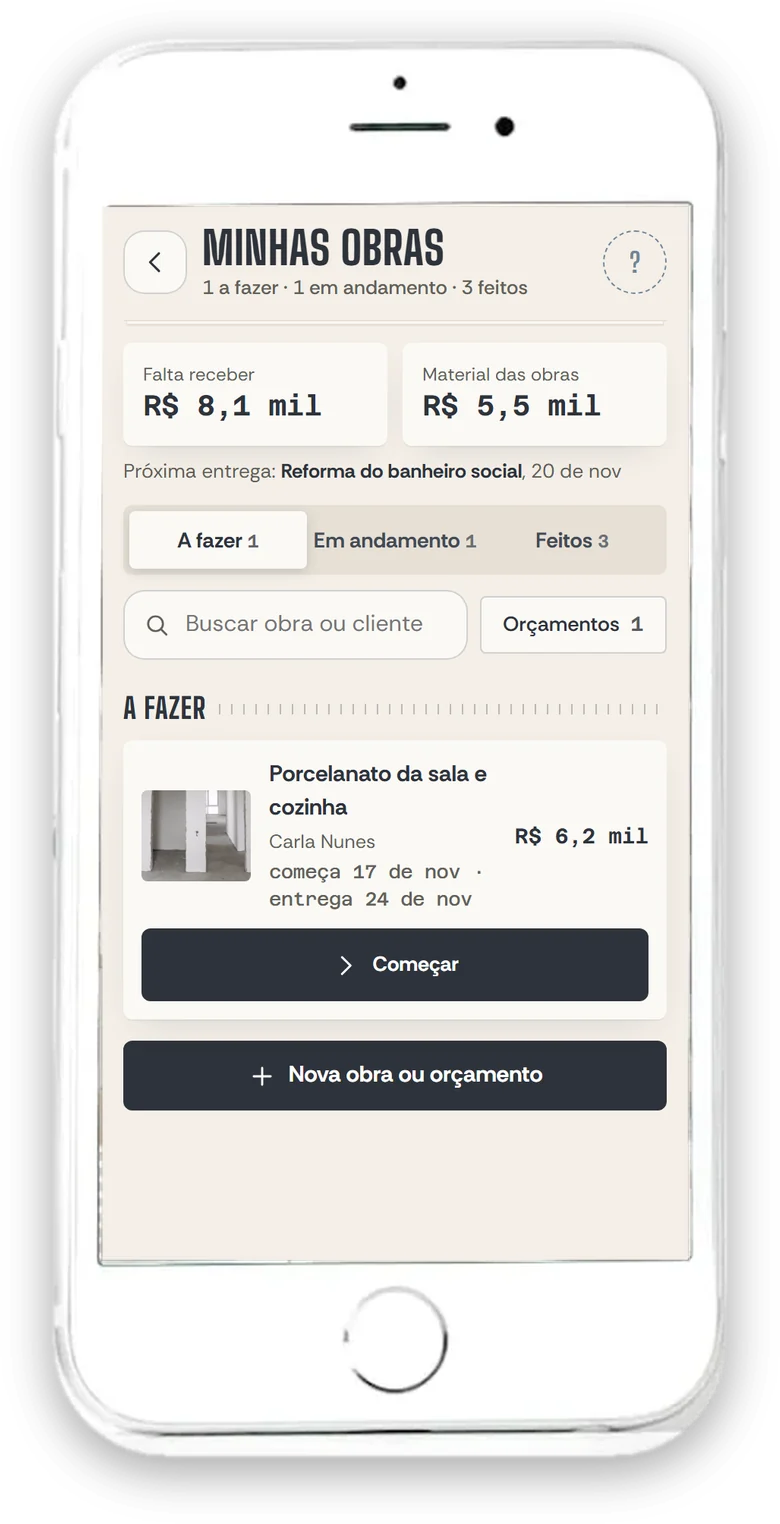
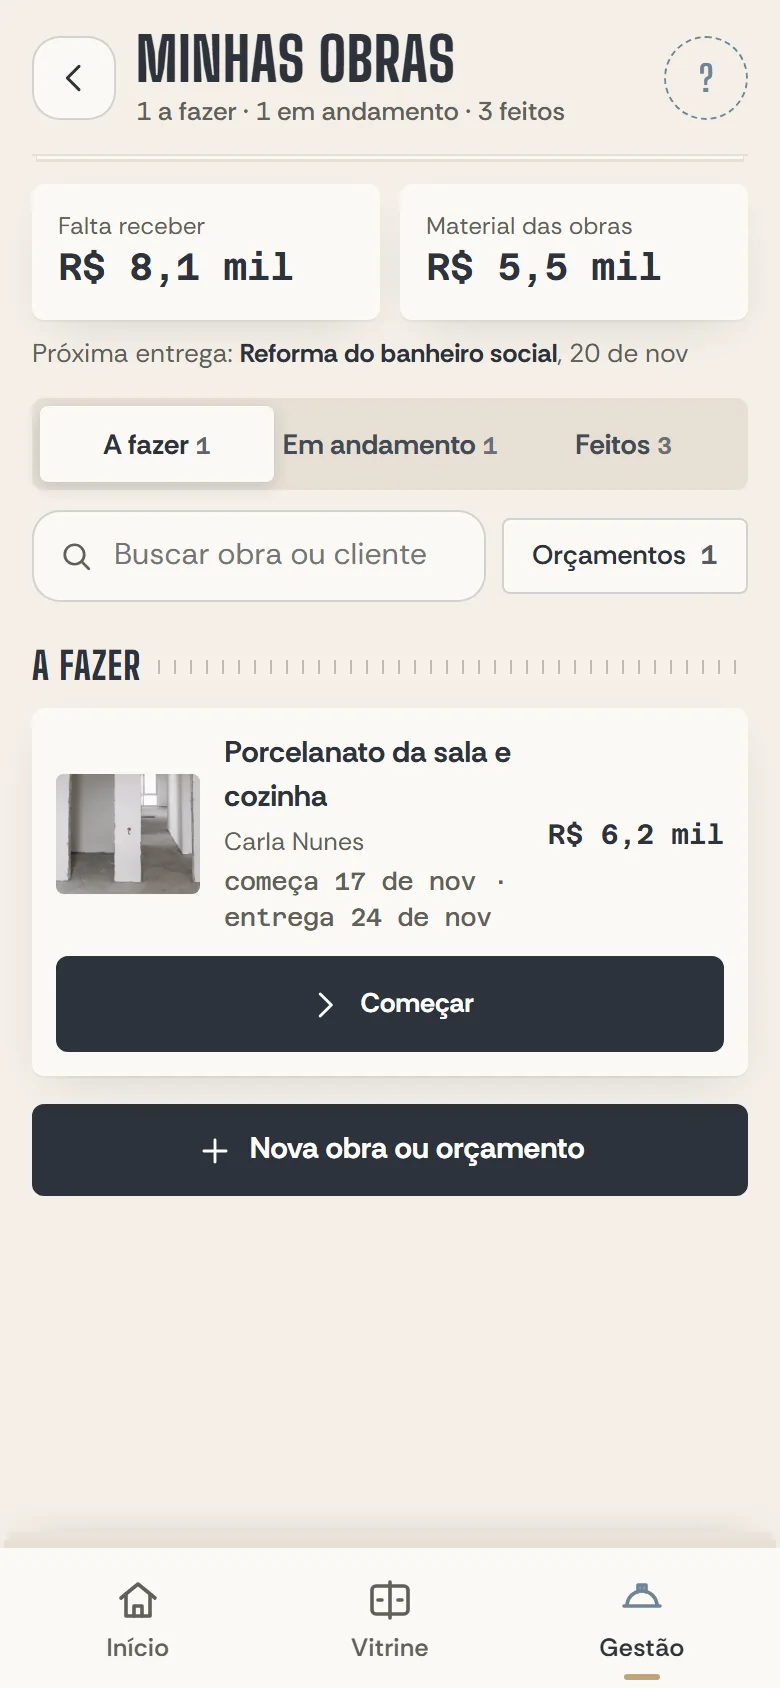
Atria: celular da vitrine do site com a tela inteira

diff --git a/vitrine.html b/vitrine.html
@@ -117,7 +117,7 @@
     </div>
     <div class="vt-palco">
       <figure class="vt-tela"><img src="img/sistemas/atria.webp?v=5" alt="Três celulares com o Atria: a vitrine pessoal com antes e depois, o início com os atalhos de orçar e cobrar Pix, e a tela Postar nas redes" width="1200" height="750" loading="lazy"></figure>
-      <img class="vt-cel" src="img/sistemas/atria-cel.webp?v=4" alt="Atria no celular, em Minhas obras com as listas A fazer, Em andamento e Feitos" width="780" height="1524" loading="lazy">
+      <img class="vt-cel" src="img/sistemas/atria-cel.webp?v=5" alt="Atria no celular, em Minhas obras com as listas A fazer, Em andamento e Feitos" width="780" height="1688" loading="lazy">
     </div>
   </section>
 
